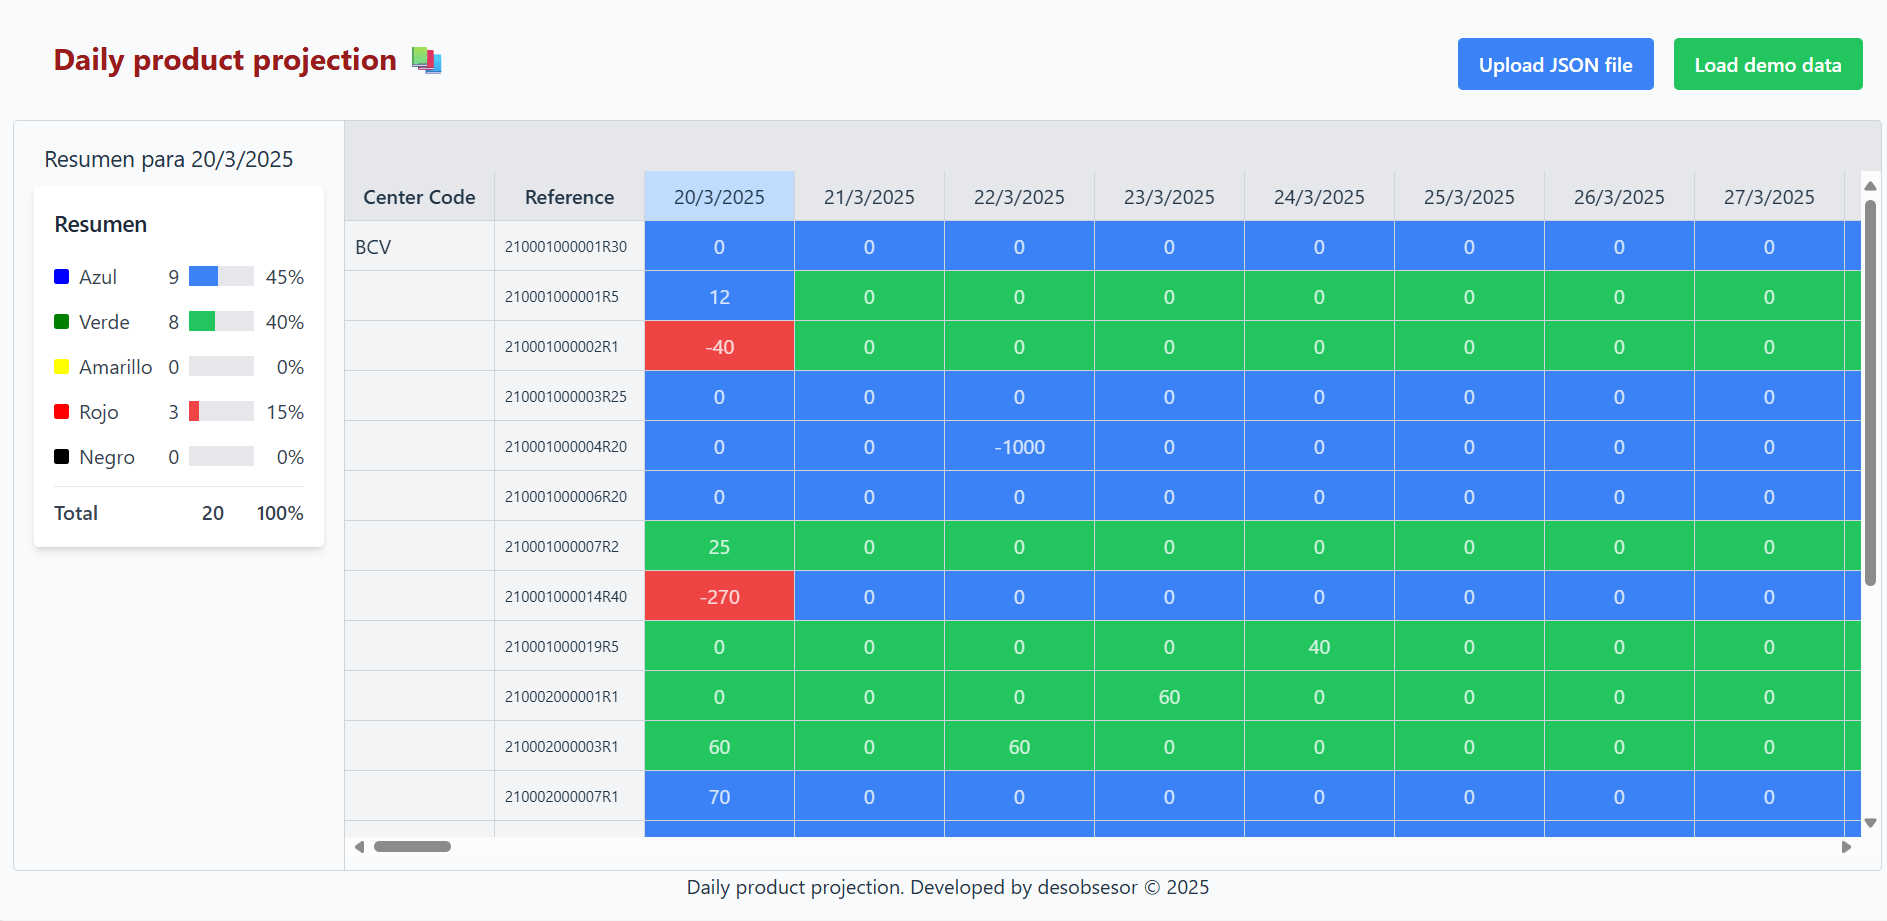
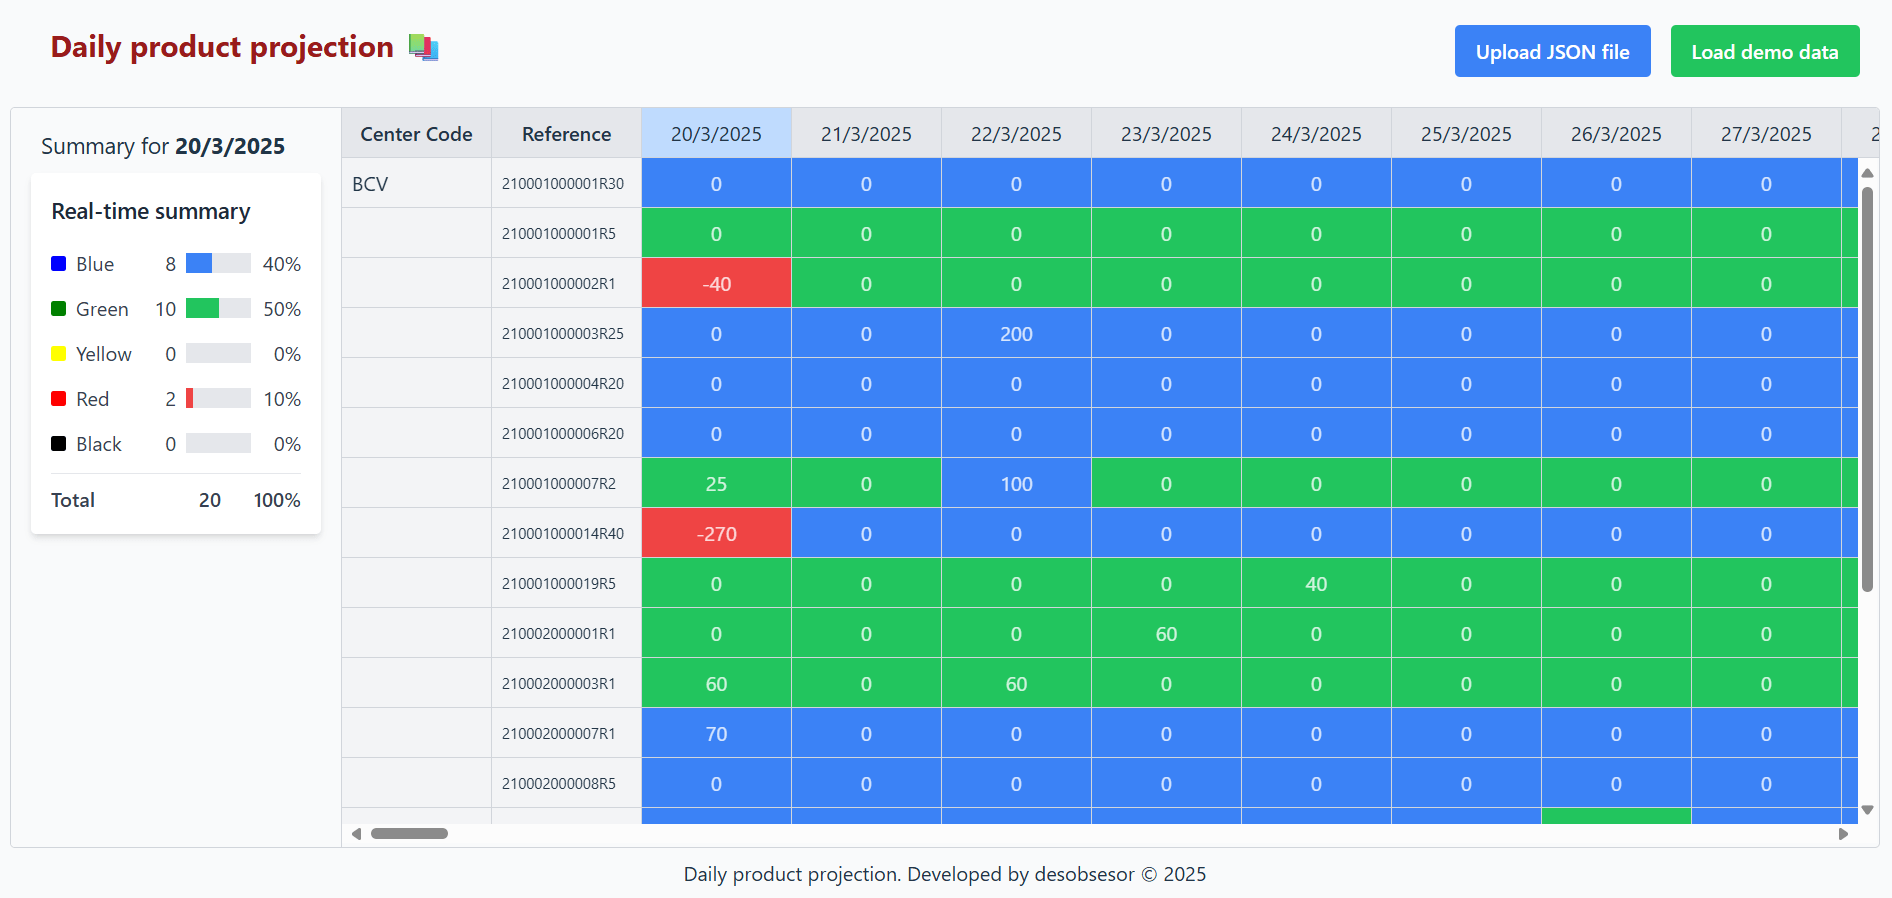
feat(ProjectionGrid): add fixed header row with date selection
Implement a fixed header row that remains visible during scrolling and allows date selection for filtering. The header scroll position is synchronized with the grid content. Also refactor grid layout to accommodate the new header structure.

diff --git a/src/presentation/components/ProjectionGrid.tsx b/src/presentation/components/ProjectionGrid.tsx
@@ -1,4 +1,4 @@
-import React, { useState } from 'react';
+import React, { useState, useRef } from 'react';
 import { FixedSizeGrid } from 'react-window';
 import { useProductStore } from '../../application/store/productStore';
 import { GridCell } from './GridCell';
@@ -154,6 +154,51 @@ export const ProjectionGrid: React.FC<ProjectionGridProps> = ({ width, height })
     return <div style={style} className="border-b border-r border-gray-300"></div>;
   };
 
+  // Create header row with fixed columns and date columns
+  const renderHeaderRow = () => {
+    return (
+      <div className="flex" style={{ height: HEADER_HEIGHT, width: COLUMN_WIDTH * (FIXED_COLUMNS + dates.length) }}>
+        {/* Fixed header cells */}
+        <div className="bg-gray-200 font-semibold flex items-center justify-center border-b border-r border-gray-300"
+          style={{ width: COLUMN_WIDTH, minWidth: COLUMN_WIDTH }}>
+          Center Code
+        </div>
+        <div className="bg-gray-200 font-semibold flex items-center justify-center border-b border-r border-gray-300"
+          style={{ width: COLUMN_WIDTH, minWidth: COLUMN_WIDTH }}>
+          Reference
+        </div>
+
+        {/* Date header cells */}
+        {dates.map((date) => {
+          const isSelected = selectedDate === date;
+          return (
+            <div
+              key={date}
+              className={`text-md flex items-center justify-center border-b border-r border-gray-300 cursor-pointer transition-colors duration-150 hover:bg-blue-50 ${isSelected ? 'bg-blue-200 hover:bg-blue-200' : 'bg-gray-200'}`}
+              style={{ width: COLUMN_WIDTH, minWidth: COLUMN_WIDTH }}
+              onClick={() => selectDate(date)}
+              title="Click to filter by this date"
+            >
+              {new Date(date).toLocaleDateString()}
+            </div>
+          );
+        })}
+      </div>
+    );
+  };
+
+  // Reference to sync scroll positions
+  const headerScrollRef = useRef<HTMLDivElement>(null);
+  const gridRef = useRef<FixedSizeGrid>(null);
+
+  // Handle grid scroll to sync header scroll
+  const handleGridScroll = ({ scrollLeft }: { scrollLeft: number; scrollTop: number }) => {
+    if (headerScrollRef.current) {
+      headerScrollRef.current.scrollLeft = scrollLeft;
+    }
+    handleScroll({ scrollLeft });
+  };
+
   return (
     <div className="flex h-full">
       {/* Summary panel */}
@@ -169,21 +214,36 @@ export const ProjectionGrid: React.FC<ProjectionGridProps> = ({ width, height })
       </div>
 
       {/* Grid panel */}
-      <div className="flex-1 overflow-hidden">
-        {/*<div style={{ height: HEADER_HEIGHT }} className="bg-gray-200"></div>*/}
-
-        <FixedSizeGrid
-          className="scrollbar-thin scrollbar-thumb-gray-400 scrollbar-track-gray-200"
-          width={gridWidth}
-          height={gridHeight + HEADER_HEIGHT}
-          columnCount={FIXED_COLUMNS + dates.length}
-          columnWidth={COLUMN_WIDTH}
-          rowCount={1 + references.length}
-          rowHeight={ROW_HEIGHT}
-          onScroll={handleScroll}
+      <div className="flex-1 flex flex-col overflow-hidden">
+        {/* Fixed header with hidden scroll */}
+        <div
+          ref={headerScrollRef}
+          className="overflow-x-hidden"
+          style={{ overflowY: 'hidden' }}
         >
-          {Cell}
-        </FixedSizeGrid>
+          {renderHeaderRow()}
+        </div>
+
+        {/* Scrollable grid content */}
+        <div className="flex-1">
+          <FixedSizeGrid
+            ref={gridRef}
+            className="scrollbar-thin scrollbar-thumb-gray-400 scrollbar-track-gray-200"
+            width={gridWidth}
+            height={gridHeight}
+            columnCount={FIXED_COLUMNS + dates.length}
+            columnWidth={COLUMN_WIDTH}
+            rowCount={references.length}
+            rowHeight={ROW_HEIGHT}
+            onScroll={handleGridScroll}
+          >
+            {({ columnIndex, rowIndex, style }) => {
+              // Adjust rowIndex to skip header row which is now separate
+              const adjustedRowIndex = rowIndex + 1;
+              return Cell({ columnIndex, rowIndex: adjustedRowIndex, style });
+            }}
+          </FixedSizeGrid>
+        </div>
       </div>
     </div>
   );
